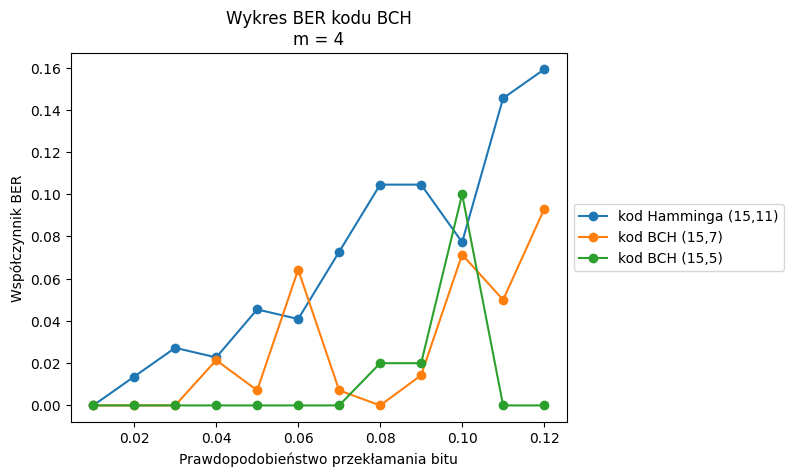
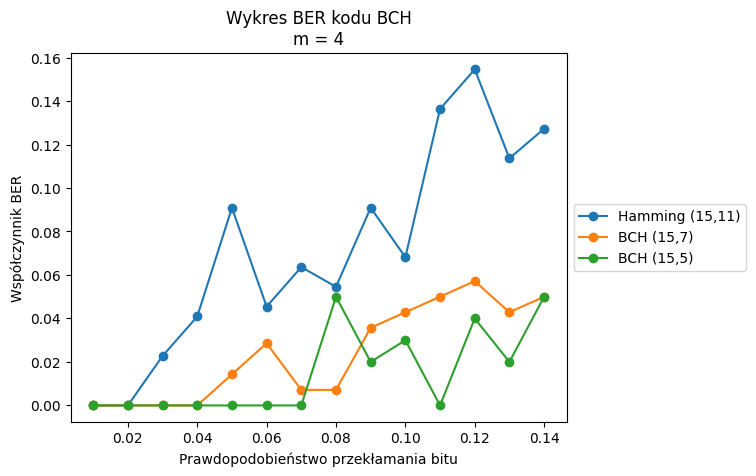
nowe wykresy

diff --git a/Etap2/Main.py b/Etap2/Main.py
@@ -1,94 +1,111 @@
 from Etap1 import  Generator
-from Etap2 import Simulation
+from Etap2 import BCH_Simulation
 from Etap2 import BCH_Parameters as p
+from Etap2 import TripleBitsSimulation
 from Etap2 import Plot
 import numpy as np
 from Etap1.Comparator import differences_number
 
 
+def repeat_simulation(probability_range, repeats, simulation, console_info):
+    avg_BER_list = []
+    avg_E_list = []
+    # petla iterująca po różnych prawdopodobieństwach przekłamania bitu
+    for probability in probability_range:
+        BER_list = []
+        E_list = []
+        print("------------------------------")
+        print(simulation.info + f" probability = {probability}")
 
+        for i in range(repeats):
+            # generowanie losowego sygnału
+            generator = Generator.Generator(data_bits_number)
+            generator.generate_signal()
 
+            # uruchamianie symulacji
+            results = simulation.run(generator.signal, probability)
+
+            distort_bits = differences_number(results.generator, results.decoder)
+
+            # statystyki
+            BER = distort_bits / data_bits_number
+            BER_list.append(BER)
+            E = (data_bits_number - distort_bits) / bits_number
+            E_list.append(E)
+
+            if console_info:
+                results.print_results()
+                print(f"Przekłamane bity: {distort_bits}")
+                print(f"BER = {BER}; E = {E}")
+                print()
+        avg_BER = sum(BER_list) / len(BER_list)
+        avg_E = sum(E_list) / len(E_list)
+
+        print(f"BER = {avg_BER}")
+        print(f"E = {avg_E}")
+        avg_BER_list.append(avg_BER)
+        avg_E_list.append(avg_E)
+
+    return avg_BER_list, avg_E_list
 
 # czy wyniki mają być wyświetlane w konsoli
-console_info = True
+console_info = False
 
 # liczba powtórzeń w celu uśrednienia wyników
 repeats = 20
 
 # zakres prawdopodobieństwa
-probability_range = np.arange(0.01, 0.13, 0.01)
+probability_range = np.arange(0.01, 0.15, 0.01)
+
+
+
+# porównanie BCH i potrajania
+m = 6
+t = 10
+ber_plot = Plot.Plot(f"Wykres BER - porównanie kodu BCH i potrajania", '', "BER", probability_range)
+e_plot = Plot.Plot(f"Wykres E - porównanie kodu BCH i potrajania", '', "E", probability_range)
+
+
+simulation = BCH_Simulation.BCH_Simulation(m, t)
+_, bits_number, data_bits_number, _ = simulation.get_parameters()
+avg_BER_list, avg_E_list = repeat_simulation(probability_range, repeats, simulation, console_info)
+ber_plot.add_plot(avg_BER_list, f"BCH({bits_number}, {data_bits_number})")
+e_plot.add_plot(avg_E_list, f"BCH({bits_number}, {data_bits_number})")
+
+simulation1 = TripleBitsSimulation.TripleBitsSimulation()
+avg_BER_list, avg_E_list = repeat_simulation(probability_range, repeats, simulation1, console_info)
+ber_plot.add_plot(avg_BER_list, f"potrajanie({bits_number}, {round(bits_number/3)})")
+e_plot.add_plot(avg_E_list, f"potrajanie({bits_number}, {round(bits_number/3)})")
+
+ber_plot.save_plot()
+e_plot.save_plot()
 
 
 # pętla po kolejnych podstawach kodu BCH
 for m in p.m_range:
 
-    ber_plot = Plot.Plot(f"Wykres BER kodu BCH", m, "BER", probability_range)
-    e_plot = Plot.Plot(f"Wykres E kodu BCH", m, "E", probability_range)
+    ber_plot = Plot.Plot(f"Wykres BER kodu BCH", f"\nm = {m}", "BER", probability_range)
+    e_plot = Plot.Plot(f"Wykres E kodu BCH", f"\nm = {m}", "E", probability_range)
 
     # pętla po kolejnych zdolnościach korekcyjnych
     for t in p.t_list[m-3]:
-
-
-
-        simulation = Simulation.Simulation(m, t)
+        simulation = BCH_Simulation.BCH_Simulation(m, t)
         _, bits_number, data_bits_number, _ = simulation.get_parameters()
 
-        avg_BER_list = []
-        avg_E_list = []
-
-        # petla iterująca po różnych prawdopodobieństwach przekłamania bitu
-        for probability in probability_range:
-            BER_list = []
-            E_list = []
-
-            if console_info:
-                print("------------------------------")
-                print(f"m = {m}; n = {bits_number}; k = {data_bits_number}; t = {t}; probability = {probability}\n")
-
-
-            for i in range(repeats):
-                # generowanie losowego sygnału
-                generator = Generator.Generator(data_bits_number)
-                generator.generate_signal()
-
-                # uruchamianie symulacji
-                results = simulation.run(generator.signal, probability)
-
-                distort_bits = differences_number(results.generator, results.decoder)
-
-                # statystyki
-                BER = distort_bits / data_bits_number
-                BER_list.append(BER)
-                E = (data_bits_number - distort_bits) / bits_number
-                E_list.append(E)
-
-                if console_info:
-                    results.print_results()
-                    print(f"Przekłamane bity: {distort_bits}")
-                    print(f"BER = {BER}; E = {E}")
-                    print()
-            avg_BER = sum(BER_list) / len(BER_list)
-            avg_E = sum(E_list) / len(E_list)
-            if console_info:
-                print(f"m = {m}; n = {bits_number}; k = {data_bits_number}; t = {t}; probability = {probability}")
-                print(f"BER = {avg_BER}")
-                print(f"E = {avg_E}")
-                print("------------------------------")
-
-            avg_BER_list.append(avg_BER)
-            avg_E_list.append(avg_E)
-
+        avg_BER_list, avg_E_list = repeat_simulation(probability_range, repeats, simulation, console_info)
 
         # dodanie wyniku do wykresu
         description = ""
         if t == 1:
-            description = "kod Hamminga"
+            description = "Hamming"
         else:
-            description = "kod BCH"
+            description = "BCH"
         description += f" ({bits_number},{data_bits_number})"
 
         ber_plot.add_plot(avg_BER_list, description)
         e_plot.add_plot(avg_E_list, description)
+
+        print("******************************")
 
     ber_plot.save_plot()
     e_plot.save_plot()

diff --git a/Etap2/Plot.py b/Etap2/Plot.py
@@ -9,15 +9,15 @@ class Plot:
     """
     Tworzy wykres o danej skali x oraz tytułach osi
     """
-    def __init__(self, title, m, statistics, probability_range):
+    def __init__(self, title, subtitle, statistics, probability_range):
         self.number = Plot.plot_number
         Plot.plot_number += 1
 
-        self.m = m
+        self.subtitle = subtitle
         self.statistics = statistics
         plt.figure(self.number)
         plt.tight_layout()
-        plt.title(title + f"\nm = {m}")
+        plt.title(title + subtitle)
         plt.xlabel("Prawdopodobieństwo przekłamania bitu")
         plt.ylabel(f"Współczynnik {statistics}")
         self.probabilities = list(probability_range)
@@ -30,6 +30,18 @@ class Plot:
     def save_plot(self):
         fig = plt.figure(self.number)
         plt.legend(loc='center left', bbox_to_anchor=(1, 0.5))
-        fig.savefig('wykresy/' + self.statistics + f'_{self.m}.png',bbox_inches='tight')
+
+        m = 0
+        if len(self.subtitle) > 0:
+            m = self.subtitle[-1]
+
+        path = ''
+        # porównanie z potrajaniem
+        if m == 0:
+            path = 'wykresy/' + self.statistics + '_BCH_vs_potrajanie.png'
+        else:
+            path = 'wykresy/' + self.statistics + f'_{m}.png'
+
+        fig.savefig(path, bbox_inches='tight')
         plt.close()
 

diff --git a/Etap2/TripleBitsSimulation.py b/Etap2/TripleBitsSimulation.py
@@ -1,0 +1,24 @@
+from Etap1 import Results
+from Etap1 import Generator
+from Etap1 import Decoder
+from Etap1 import Channel
+from Etap1 import Coder
+
+class TripleBitsSimulation:
+    def __init__(self):
+        self.info = "TripleBitsSimulation "
+
+    def run(self, msg, probability):
+        results = Results.Results()
+
+        results.generator = msg
+
+        coder = Coder.Coder()
+        results.coder = coder.code(results.generator)
+
+        channel = Channel.Channel(probability)
+        results.channel = channel.get_output(results.coder)
+
+        decoder = Decoder.Decoder()
+        results.decoder = decoder.decode(results.channel)
+        return results

diff --git a/Etap2/BCH_Simulation.py b/Etap2/BCH_Simulation.py
@@ -7,13 +7,14 @@ from Etap1 import Generator
 Klasa odpowiada za sumulacje przeprowadzaną za pomocą kodowania BCH
 Z zadanymi parametrami wejściowymi oraz prawdopodobieństem przekłamania 
 """
-class Simulation:
+class BCH_Simulation:
     def __init__(self, m, t):
         self.coder = BCHCode(m, t)
         self.m = m                      # rządz BCH
         self.n = self.coder.length      # liczba danych + dane nadmiarowe
         self.k = self.coder.dimension   # liczba danych
         self.t = t                      # zdolność korekcyjna
+        self.info = f"BCH simulation - m = {m}; n = {self.n}; k = {self.k}; t = {t};"
 
 
     """

diff --git a/Etap2/__init__.py b/Etap2/__init__.py
@@ -1,1 +1,1 @@
-__all__ = ["Main", "BCH_Parameters", "Simulation", "Plot"]
+__all__ = ["Main", "BCH_Parameters", "BCH_Simulation", "Plot", "TripleBitsSimulation"]
